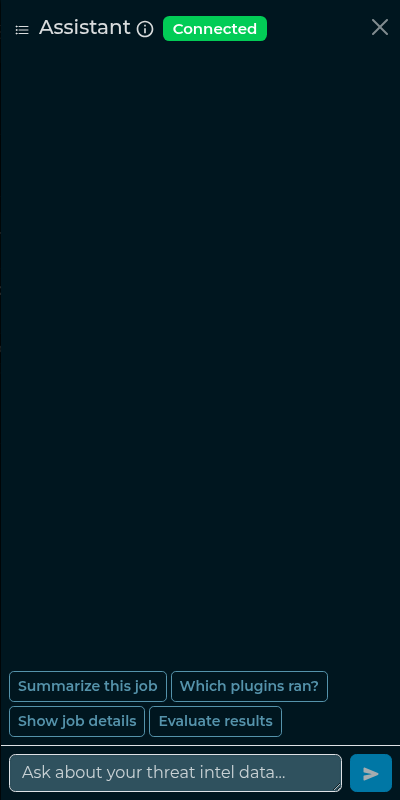
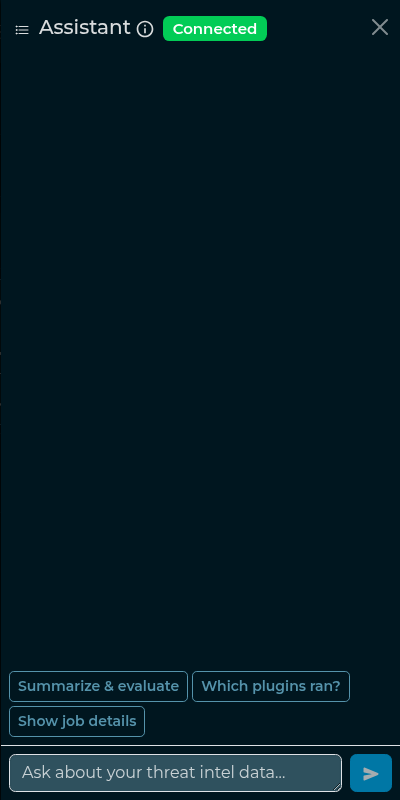
[GSoC 2026] docs(chatbot): document the job verdict
Follow-up to intelowlproject/IntelOwl#3898. Documents IntelOwl's reconciled verdict in the chatbot page,  refreshes the quick-action chips and the screenshot.

Changed region(s): [[0.27, 0.8438, 0.84, 0.9062]]

diff --git a/docs/IntelOwl/chatbot.md b/docs/IntelOwl/chatbot.md
@@ -15,7 +15,7 @@ the chat button does not connect; see the
 Ask in plain language and the assistant answers by calling read-only IntelOwl tools on your behalf:
 
 - search your jobs and show a job's details;
-- summarize a job or an investigation;
+- summarize a job — including IntelOwl's verdict on the observable — or an investigation;
 - show an investigation's job tree;
 - show a job's aggregated data model;
 - list the analyzers available on the instance;
@@ -45,6 +45,7 @@ Example questions:
 
 - "Show me my most recent jobs."
 - "Summarize job #1234."
+- "Is job #1234 malicious?"
 - "Which analyzers can run on a domain?"
 - "Which playbook should I use for an IP address?"
 
@@ -53,12 +54,25 @@ Example questions:
 ## Quick actions
 
 Below the input you'll find one-click quick actions. They are **context-aware**: on a job page they
-offer job actions ("Summarize this job", "Which plugins ran?", "Show job details", "Evaluate
-results"), on an investigation page they offer investigation actions, and elsewhere they offer
-general ones ("Show my recent jobs", "List my investigations"). Clicking a chip sends the
-corresponding question for you.
+offer job actions ("Summarize & evaluate", "Which plugins ran?", "Show job details"), on an
+investigation page they offer investigation actions, and elsewhere they offer general ones ("Show my
+recent jobs", "List my investigations"). Clicking a chip sends the corresponding question for you.
 
 ![quick actions](./static/chatbot/quick_actions.png)
+
+## The verdict on a job
+
+When you summarize a job, the assistant also reports **IntelOwl's own verdict** on the observable —
+the same evaluation the job page badge shows — together with the evidence behind it: which analyzers
+support it, which disagree, and which produced no opinion at all.
+
+The verdict is never the model's own judgement. It is the platform's reconciliation of the analyzer
+data models, so the chatbot says the same word the badge does. When no analyzer produced an
+evaluation — or the observable is a `generic` one, which IntelOwl does not evaluate — the assistant
+reports that instead of guessing.
+
+Because the verdict travels with the summary, "summarize job #N", "evaluate the results of job #N"
+and "is job #N malicious?" all reach it.
 
 ## Working with the page you're on
 
